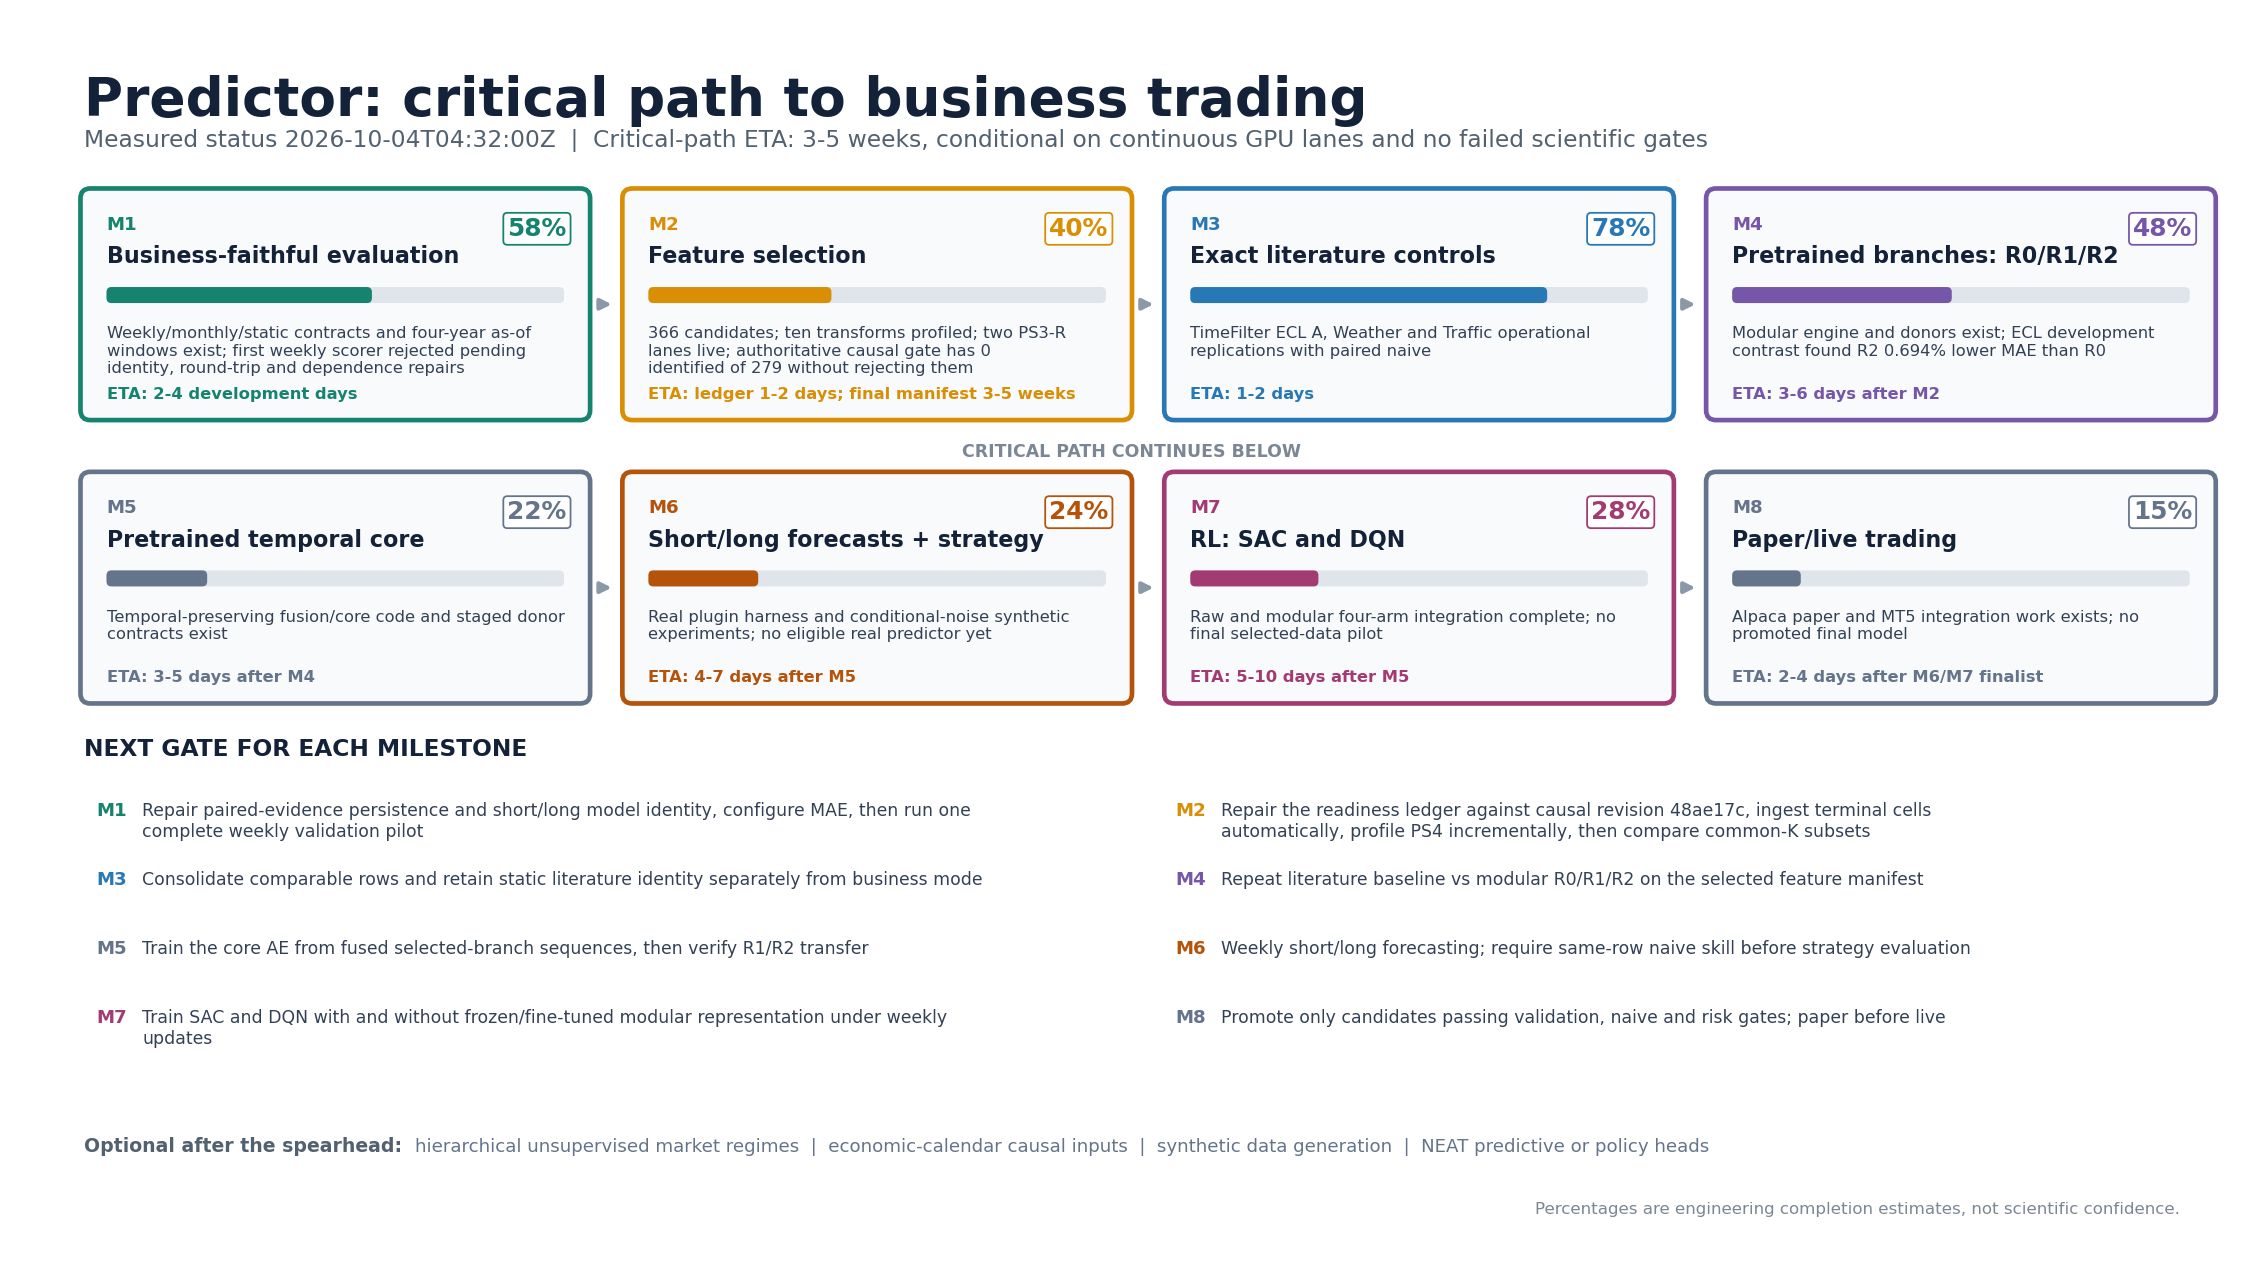
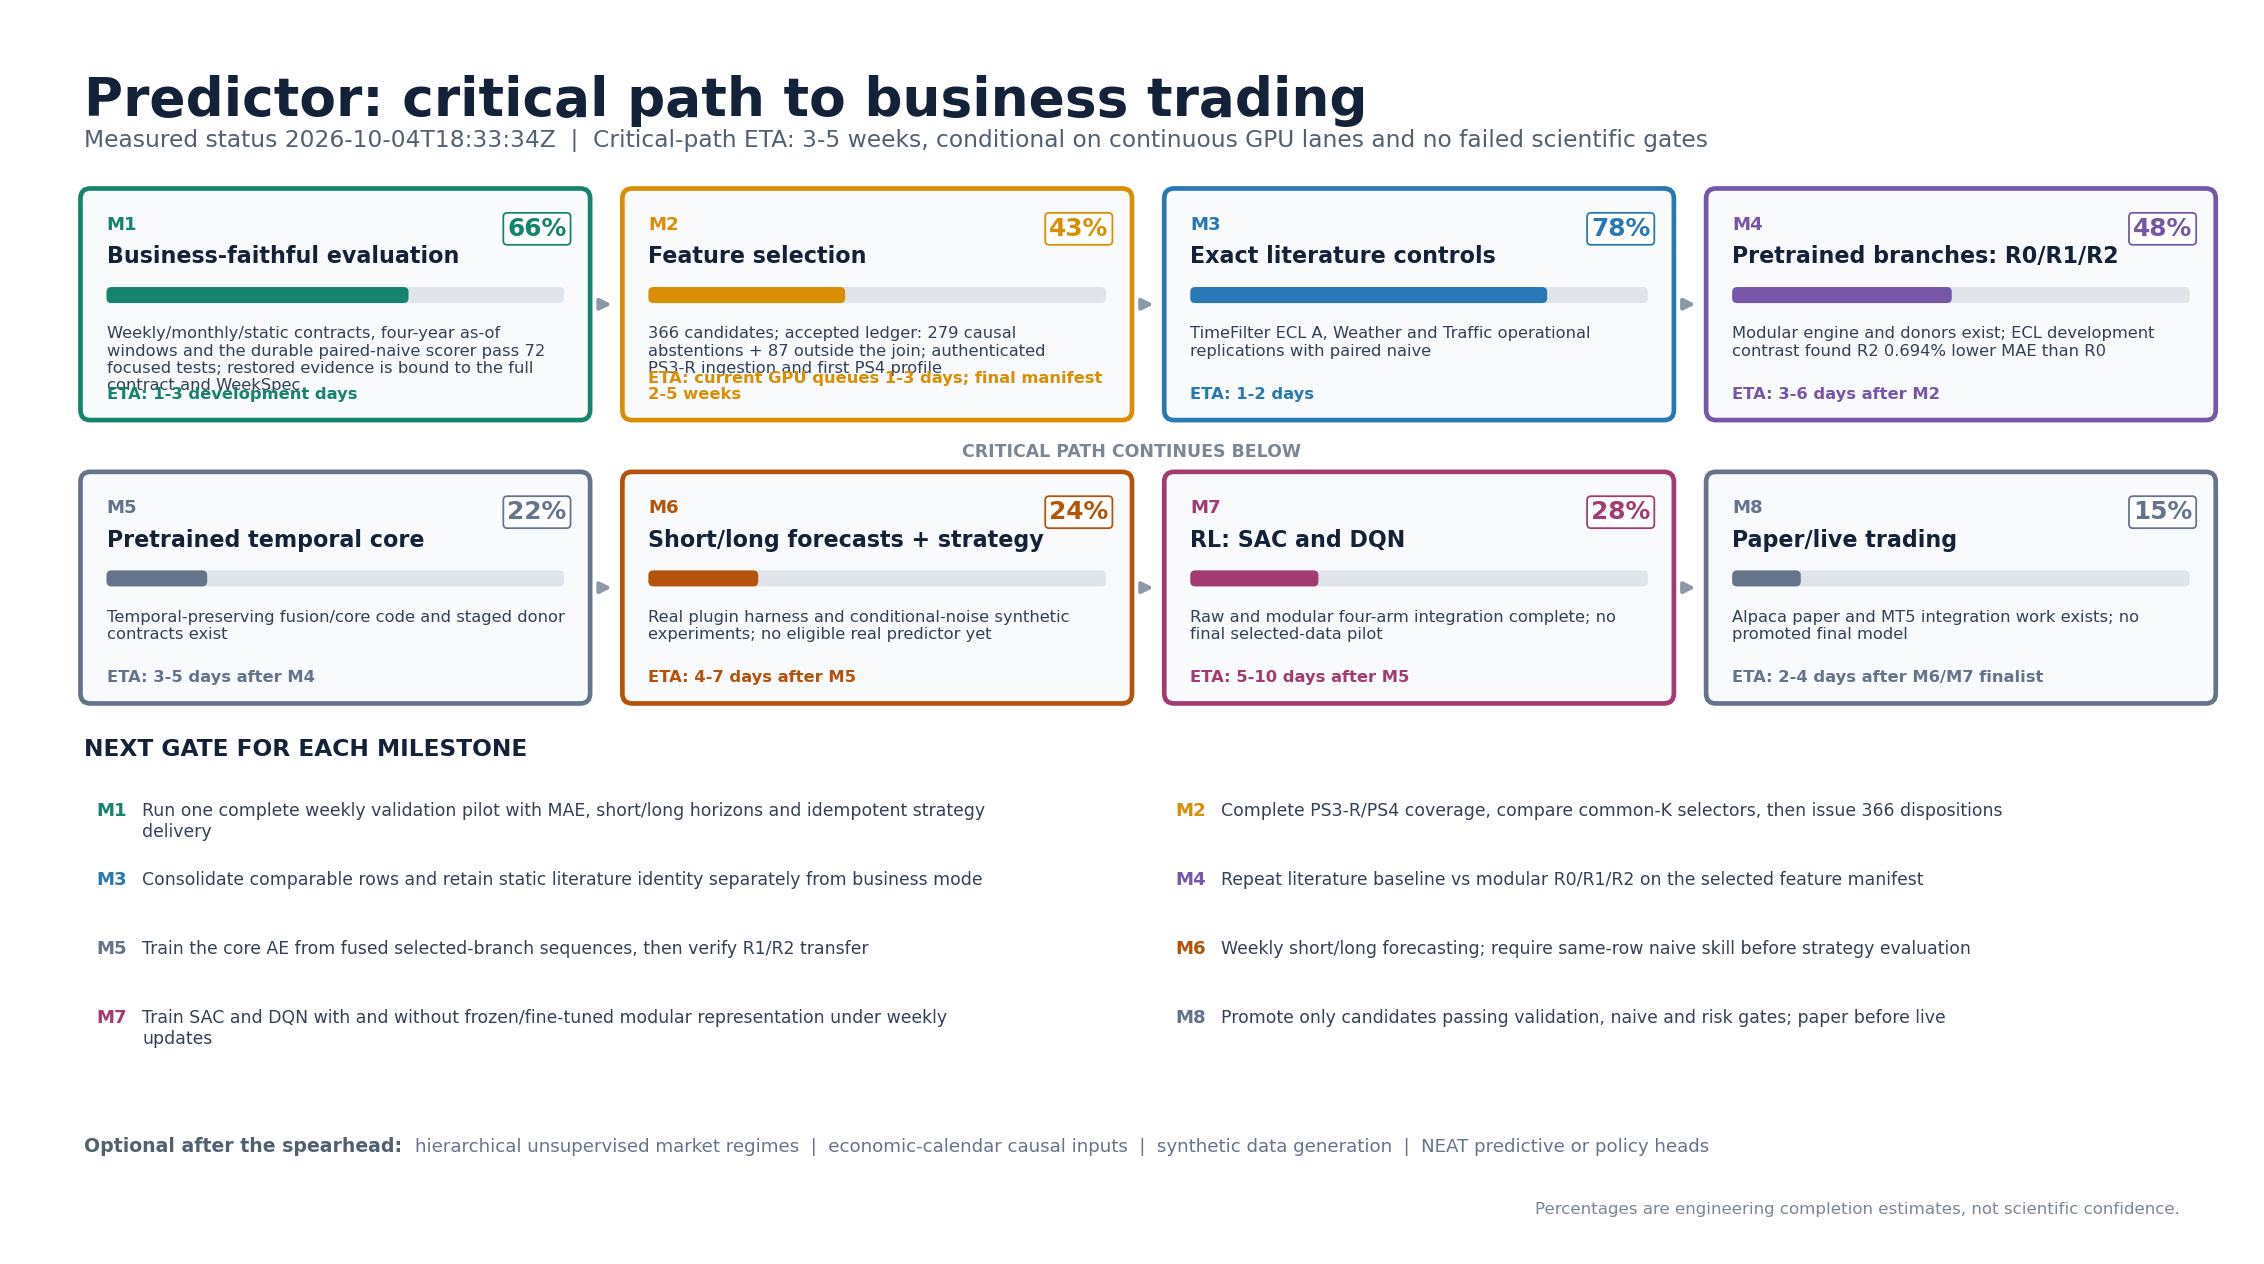
Integrate audited selection recovery and refresh milestones

diff --git a/tests/test_business_weekly_score.py b/tests/test_business_weekly_score.py
@@ -616,6 +616,21 @@ class WeeklyScoreTests(unittest.TestCase):
                 WeeklyScoreLedger.from_json(json.dumps(payload))
             self.assertEqual(caught.exception.code, "SCORE_SCHEMA")
 
+        tiny = json.loads(ledger.to_json())
+        horizon_row = tiny["scores"][0]["horizons"][0]
+        horizon_row["model_mae"] = 1e-6
+        horizon_row["model_mse"] = 0.0
+        horizon_row["skill_mae"] = 0.9999995
+        horizon_row["skill_mse"] = 1.0
+        horizon_row["paired_differences"] = [
+            {"origin": "o1", "absolute_error_difference": -1.999999},
+            {"origin": "o2", "absolute_error_difference": -1.999999},
+        ]
+        reseal(tiny)
+        with self.assertRaises(ScoreRefusal) as caught:
+            WeeklyScoreLedger.from_json(json.dumps(tiny))
+        self.assertEqual(caught.exception.code, "SCORE_SCHEMA")
+
     def test_restore_rejects_duplicate_scores_and_metric_from_another_contract(self) -> None:
         release = WeekRelease(
             week(0),

diff --git a/tools/business_weekly_score.py b/tools/business_weekly_score.py
@@ -541,7 +541,15 @@ def _validate_restored_score(score: WeekScore, contract: ScoringContract) -> Non
         naive_mse = _finite_number("naive_mse", item.naive_mse)
         if min(model_mae, model_mse, naive_mae, naive_mse) < 0.0:
             raise ScoreRefusal("SCORE_SCHEMA", "error metrics cannot be negative")
-        if model_mse + 1e-12 < model_mae**2 or naive_mse + 1e-12 < naive_mae**2:
+        model_floor = model_mae**2
+        naive_floor = naive_mae**2
+        if (
+            model_mse < model_floor
+            and not math.isclose(model_mse, model_floor, rel_tol=1e-12, abs_tol=0.0)
+        ) or (
+            naive_mse < naive_floor
+            and not math.isclose(naive_mse, naive_floor, rel_tol=1e-12, abs_tol=0.0)
+        ):
             raise ScoreRefusal("SCORE_SCHEMA", "MSE cannot be below squared MAE")
         expected_mae_skill = _skill(model_mae, naive_mae)
         expected_mse_skill = _skill(model_mse, naive_mse)

diff --git a/docs/tres_temas_entrevista/program_v3/CURRENT_EXECUTION.md b/docs/tres_temas_entrevista/program_v3/CURRENT_EXECUTION.md
@@ -1,6 +1,6 @@
 # Estado de ejecución vigente
 
-Observado: 2026-10-04 04:32 UTC. La autoridad `codex/workplan-consolidation-20261003@02434903` está integrada en esta rama. Este corte sustituye las observaciones anteriores; no modifica resultados históricos. Los `STATUS.json` anteriores son instantáneas, no el estado vivo.
+Observado: 2026-10-04 18:33 UTC. La autoridad `codex/workplan-consolidation-20261003@02434903` está integrada en esta rama. Este corte sustituye las observaciones anteriores; no modifica resultados históricos. Los `STATUS.json` anteriores son instantáneas, no el estado vivo.
 
 ## Secuencia vigente
 
@@ -21,9 +21,9 @@ No ejecutar NEAT ahora. NEAT es un cabezal tardío, después de selección, ARCH
 | Host/GPU | Corte observado | Trabajo / disponibilidad |
 |---|---|---|
 | Omega RTX 4070 Laptop | escritorio, sin job batch observado | Contratos y tests CPU pequeños solamente. |
-| Gamma RTX 5090 | activa, 19,518 MiB, 50 C | Lane F secuencial; despues de cerrar `tv.hilbert_amp`, `tv.kalman_dev` y `tv.stl_dev`, ejecutaba `tv.stl_seasonal` al corte. |
+| Gamma RTX 5090 | activa, 19,498 MiB, 50 C | Continuación durable lane F; después de cerrar siete celdas en esta sesión ejecuta `fx.audusd.logret_24h` con `masked_temporal_ae`. |
 | Gamma RTX 5070 Ti Laptop | 0%, 14 MiB, 26 C | Ociosa. No concurre con la 5090 porque ambas comparten 14 GiB de RAM del host. |
-| Dragon RTX 4090 Laptop | hijo vivo, 14,434 MiB, 40 C | Ejecuta `fx.eurjpy.logret_1h` de la cola baseline PS3-R, una celda a 8,000 MiB. |
+| Dragon RTX 4090 Laptop | activa, 14,430 MiB, 41 C | Continuación durable baseline; cerró `fred.credit.aaa.logret_1d` y ejecuta `fred.fx_indices.dtwexemegs.level`, una celda a 8,000 MiB. |
 
 La cola F no equivale a trabajo usando la 5070 Ti mientras E ocupa el slice. El driver E/F alterna al terminar una celda; no iniciar un duplicado ni forzar concurrencia.
 
@@ -38,22 +38,22 @@ La cola F no equivale a trabajo usando la 5070 Ti mientras E ocupa el slice. El 
 | PS3-C causal | FIX Y REVISIÓN PUBLICADOS | `causal-inference@48ae17c`; 45 pruebas focales pasan. Revisión read-only de los tres lotes guardada en `laneC/reanalysis_48ae17c/`: 279 candidatas, 1,076 filas históricas; 109 con BH local, 0 identificación aceptada, 0 confirmaciones no lineales. La suite general del proveedor deja 6 fallos de entorno (EconML y paquete no instalado en subproceso), 149 pasan y 27 skip. |
 | PS3-R extractibilidad | EN EJECUCIÓN EN DOS GPU | Dragon continua baseline. Gamma lane F cerro tres celdas past-to-current con hash de resultados igual al manifiesto (`tv.hilbert_amp`, `tv.kalman_dev`, `tv.stl_dev`) y continua secuencialmente. Son mediciones de extractor; reconstruccion/utilidad no equivalen a seleccion. |
 | Cobertura de features | RECONCILIACIÓN PARCIAL | `coverage_reconciliation/`: 366/366 filas, 279 en join PS3-C + 87 fuera, 137 en cola E, 142 fuera de E = 132 tier-3 + 10 calendario. Ocho pruebas pasan. Proveedores pagados y transformaciones siguen requiriendo su propia reconciliación; no se declara exhaustivo. |
-| PS4/PS5 manifiesto conjunto | LEDGER DE RETSU RECHAZADO, PILOTO PARCIAL | PS4 acepta diez transformaciones: 50/50 unidades y 1,050 filas. El ledger `5da79f34` usa estados causales historicos (65 identificadas + 13 mixtas) que contradicen `48ae17c` (0 identificadas), y adopta celdas con constantes. Debe repararse antes de common-K; no se libera seleccion ni estrategia. |
+| PS4/PS5 manifiesto conjunto | LEDGER Y PRIMER PERFIL INCREMENTAL ACEPTADOS | El ledger autentica 14 terminales y su producto pliegue × familia × target × horizonte × metrica; conserva 279 `NOT_IDENTIFIED` + 87 `OUTSIDE_JOIN_PENDING` y 366 `NOT_READY`. El primer perfil incremental conserva 5 unidades VIX `MEASURED`, 1 `PENDING`, 105 metricas y procedencia PS3-R externa. No se libera seleccion ni estrategia. |
 | ARCH/E1/H-CORE/NEAT/RL | AÚN NO ELEGIBLES | Ejecutar en orden canónico solo tras manifiesto final; H-CORE después de E1 y NEAT al final sobre representación congelada. |
-| Walk-forward semanal | IMPLEMENTACIÓN PARCIAL, SCORER NO ACEPTADO | Contrato BW01-BW18 y nucleo de calendario/modos implementados. El scorer `39a45e88` pierde diferencias pareadas al recargar, exige indebidamente el mismo modelo corto/largo y cuenta semanas como replicas independientes. Debe repararse antes del piloto semanal. |
+| Walk-forward semanal | NUCLEO Y SCORER DURABLE IMPLEMENTADOS | Contrato BW01-BW18, calendario/modos y scorer pareado pasan 72 pruebas focalizadas. MAE financiero, identidad separada corto/largo, contrato y `WeekSpec` completos, diferencias por origen y semantica de entrega `AT_LEAST_ONCE_IDEMPOTENT_SCORE_DIGEST` quedan retenidos. Falta el piloto anual semanal completo. |
 | Literatura | COLA NO VIVA | No hay runner científico observado en Dragon; el STATUS anterior describía una cola Traffic, no un proceso vivo en este corte. |
 
 ## Trabajo en paralelo y orden inmediato
 
 1. **Gamma:** no detener lane F; una celda en la 5090, sin concurrencia con la 5070 Ti mientras el host no admita ambas.
 2. **Dragon:** no detener la baseline PS3-R; una celda terminal por vez y sin duplicados.
-3. **CPU causal/ledger:** reconstruir M2 exclusivamente desde `reanalysis_48ae17c`; mantener 0 identificadas como abstencion, no rechazo.
-4. **CPU evidencia:** reemplazar constantes por adopcion automatica de manifiestos terminales verificados, separando baseline y familias alternativas.
+3. **CPU causal/ledger:** incorporar cada nuevo terminal autenticado sin convertir `NOT_IDENTIFIED` en rechazo.
+4. **CPU evidencia:** mantener baseline y familias alternativas separadas y verificar la poblacion cartesiana completa de cada terminal.
 5. **CPU PS4:** perfilar incrementalmente cada feature terminal autentica sin target/test, sin esperar las 366.
-6. **CPU negocio:** reparar persistencia pareada, identidad separada corto/largo y dependencia longitudinal del scorer; fijar MAE primario antes del piloto semanal.
+6. **CPU negocio:** ejecutar el primer piloto semanal completo con el scorer aceptado; validation y test conservan recorridos separados.
 
 ## Resultado/ETA
 
-Hay un piloto predictivo PS5 de desarrollo, no exactitud financiera ni feature seleccionada: su mejor brazo no supera al naive pareado. La reconciliación reduce incertidumbre de cobertura, pero no decide selección. Al ritmo observado, las colas E/F pendientes representan aproximadamente 80 horas de GPU compartida; no es una ETA de PS5 completo ni de selección final.
+Hay un piloto predictivo PS5 de desarrollo, no exactitud financiera ni feature seleccionada: su mejor brazo no supera al naive pareado. La reconciliación reduce incertidumbre de cobertura, pero no decide selección. En esta sesión la 5090 cerró celdas alternativas en 3-4 minutos y la primera baseline nueva de Dragon tomó 15,4 minutos; esos ritmos sirven para las colas actuales, no constituyen todavía una ETA del manifiesto PS5 completo.
 
 Progreso visual anterior: [PROGRESS_20261003T1634Z.png](../../audits/evidence/canonical_20261003/PROGRESS_20261003T1634Z.png). Revisión causal: [REPORT](../../audits/evidence/canonical_20261003/laneC/reanalysis_48ae17c/REPORT.md). Cobertura de features: [README](../../audits/evidence/canonical_20261003/coverage_reconciliation/README.md). Fuentes y transformaciones: [REPORT.json](../../audits/evidence/canonical_20261003/source_transform_coverage/REPORT.json).

diff --git a/docs/audits/evidence/canonical_20261003/RETSU_RECOVERY_RETURN_2026_10_04.md b/docs/audits/evidence/canonical_20261003/RETSU_RECOVERY_RETURN_2026_10_04.md
@@ -1,0 +1,33 @@
+# Recuperacion posterior a Retsu, 2026-10-04
+
+## Alcance
+
+Se auditaron las entregas M1, M2 y PS4 dejadas por Retsu. Las dos colas PS3-R se reanudaron como servicios durables sin repetir terminales cuyo estado, fichero y SHA-256 ya fueran validos.
+
+## Resultado
+
+| Frente | Resultado | Evidencia |
+|---|---|---|
+| M1 negocio semanal | Reparado; revision final pendiente al publicar este corte | Scorer sin efectos laterales; contrato y WeekSpec completos; diferencias pareadas; MAE financiero; restauracion semantica; entrega `AT_LEAST_ONCE_IDEMPOTENT_SCORE_DIGEST` |
+| M2 readiness | ACEPTADO por revision independiente | 38/38; tres terminales alternativos reales; producto pliegue x familia x target x horizonte x metrica; 279 `NOT_IDENTIFIED` + 87 `OUTSIDE_JOIN_PENDING`; 366 `NOT_READY` |
+| PS4 incremental | ACEPTADO por revision independiente | 20/20; 5 `MEASURED`, 1 `PENDING`; 105 metricas; indice aceptado externo y 441 filas PS3-R retenidas |
+| Integracion combinada | PASA | 130/130 pruebas antes de la ultima reparacion semantica M1; 72/72 del bloque M1 despues de ella |
+
+La seleccion final sigue `NOT_ISSUED`. Aceptar el ledger y el perfilador no convierte evidencia parcial en una decision de features.
+
+## Ejecucion GPU
+
+- Gamma, RTX 5090 externa: `canonical-lanef-5090.service`, UUID fisico explicito, semilla 0. Cerro siete celdas desde la recuperacion y avanzo a `fx.audusd.logret_24h`.
+- Dragon, RTX 4090 Laptop: `canonical-baseline-4090.service`, UUID fisico explicito, semilla 0. Cerro `fred.credit.aaa.logret_1d` y avanzo a `fred.fx_indices.dtwexemegs.level`.
+- Gamma, RTX 5070 Ti interna: deliberadamente sin una segunda carga pesada porque comparte la RAM de 14 GiB con la 5090.
+- Omega, RTX 4070 Laptop: reservada para escritorio y verificaciones pequenas.
+
+Los drivers omiten solamente un terminal `COMPLETED` cuyo `results.jsonl` existe y coincide con el `results_sha256` del manifiesto. Un fallo genera evidencia y el servicio continua con la siguiente celda; no reduce semillas ni repite una celda valida.
+
+## Limites
+
+- No hay feature seleccionada todavia.
+- `NOT_IDENTIFIED` es abstencion causal, no descarte.
+- Una buena reconstruccion es evidencia de extractibilidad, no seleccion automatica.
+- La autenticidad del indice PS4 depende de custodiar su SHA-256 fuera del conjunto que autentica.
+- El piloto anual semanal de negocio aun no se ha ejecutado.
